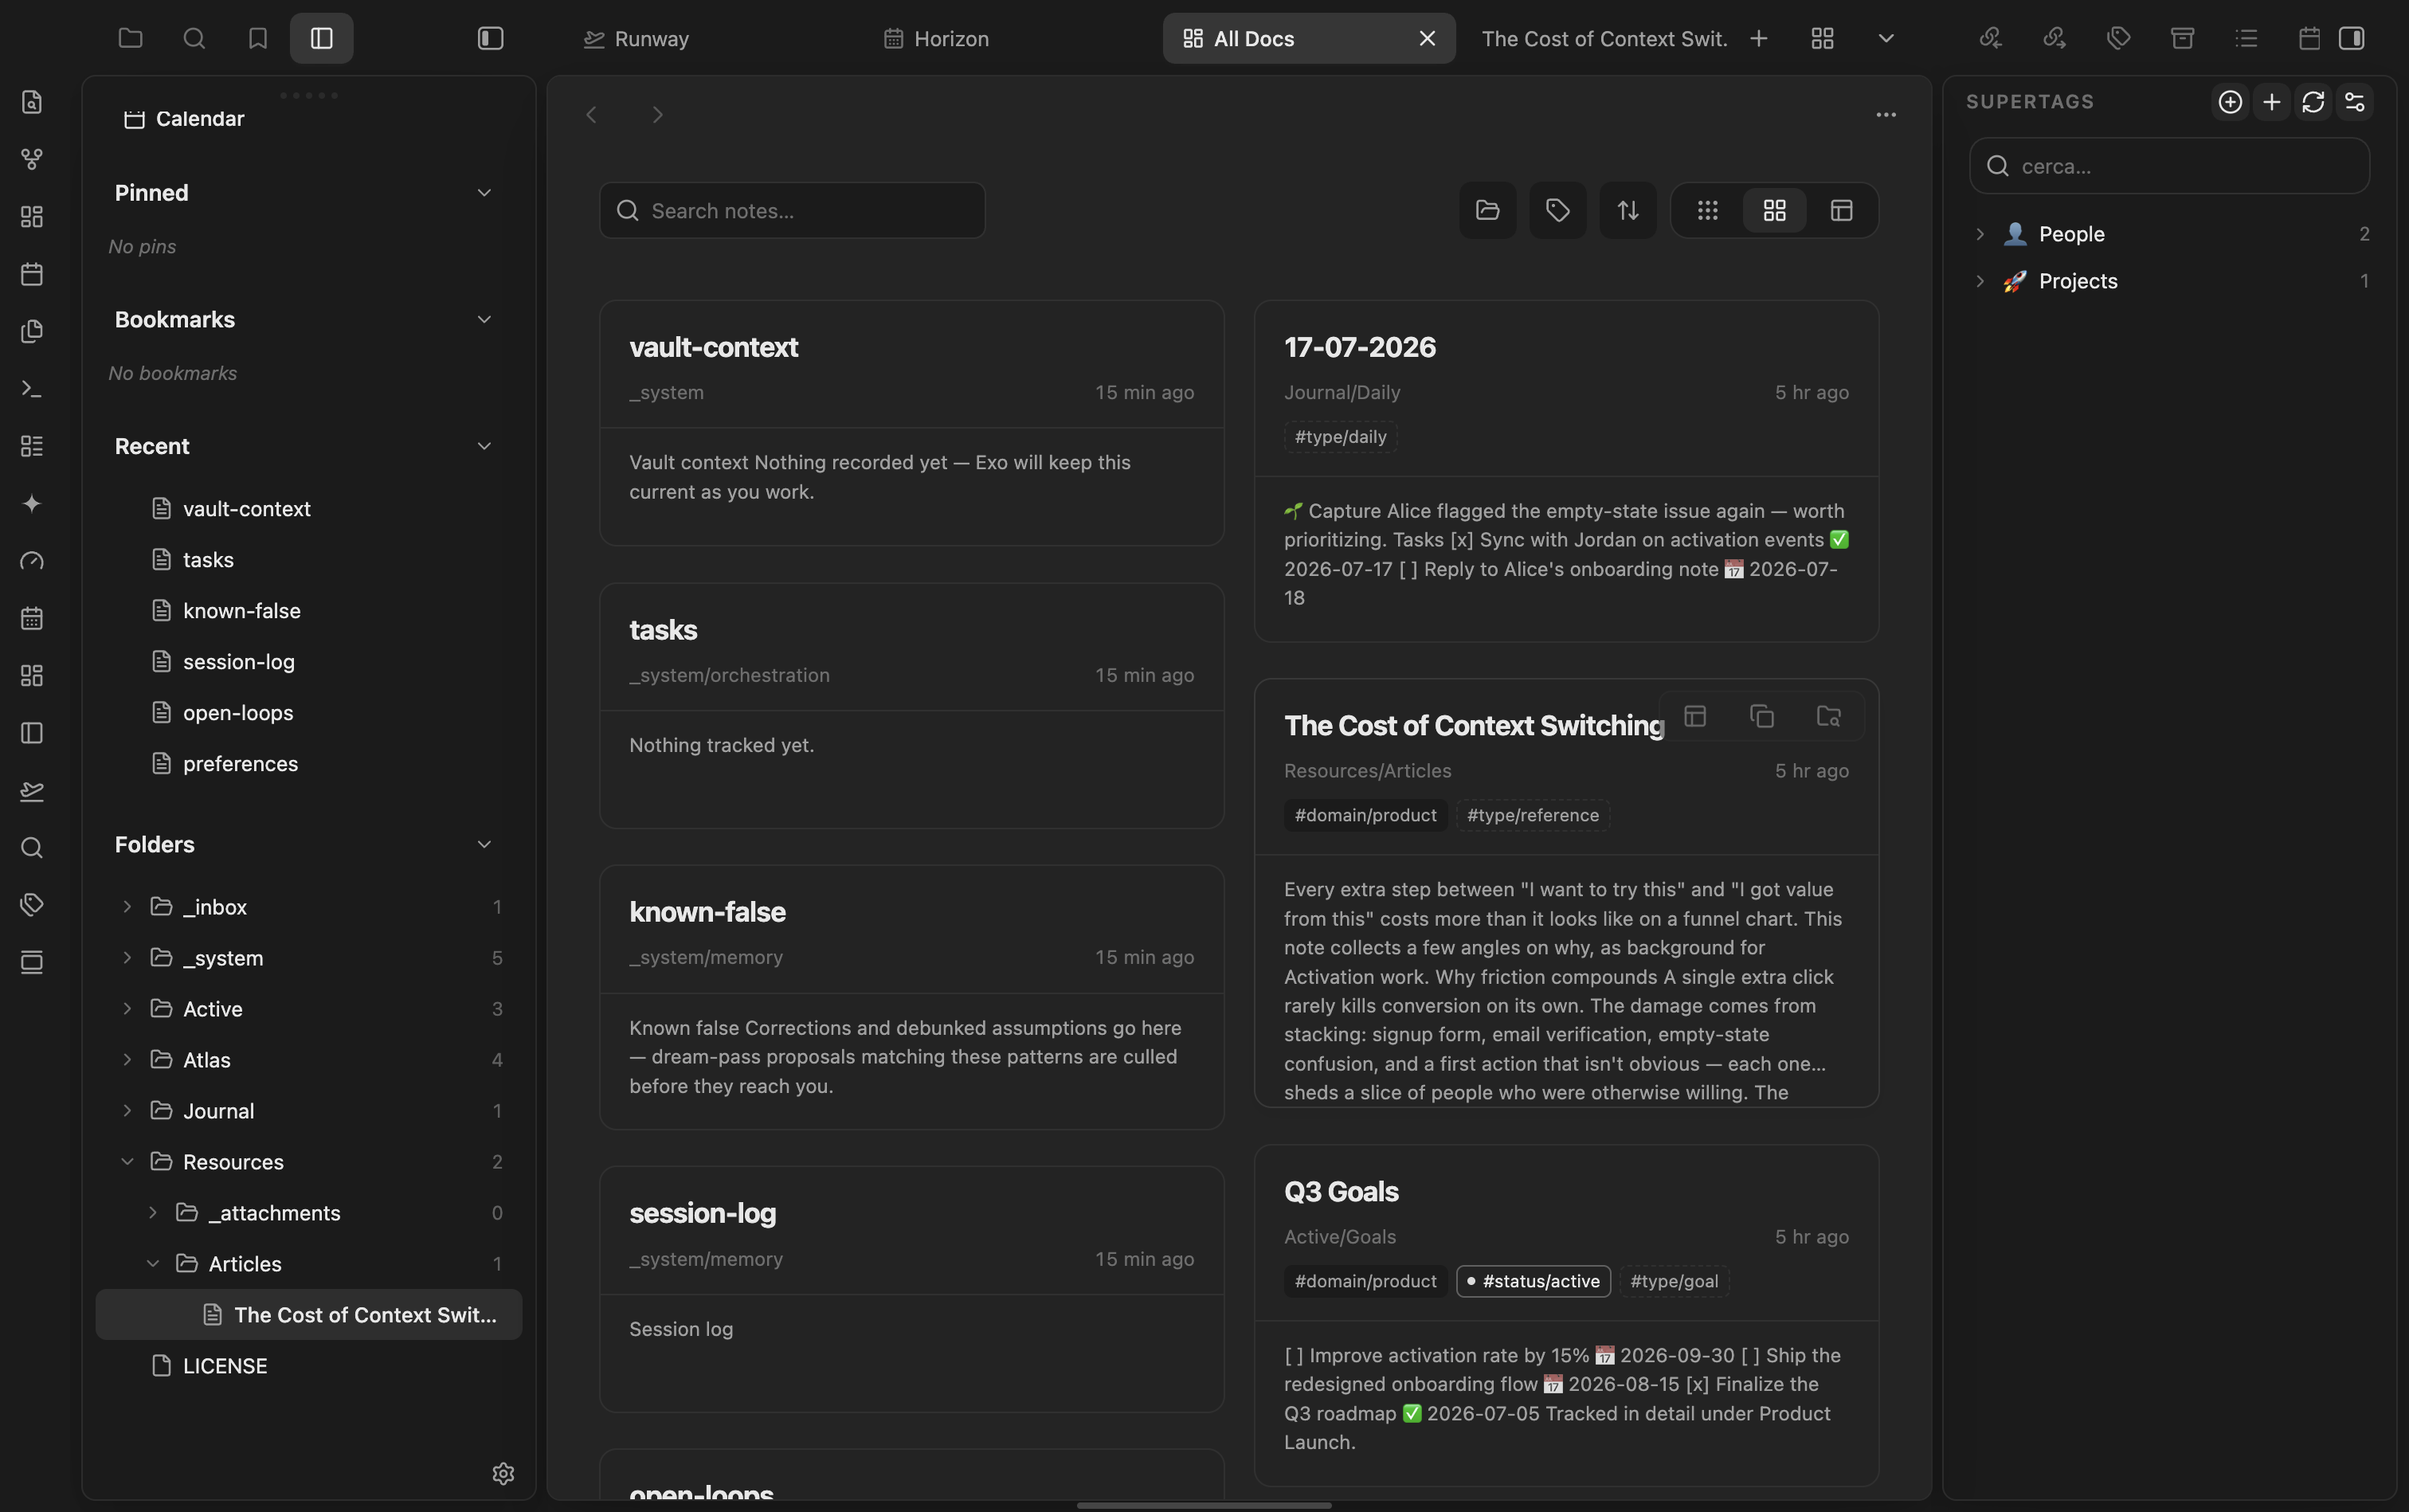
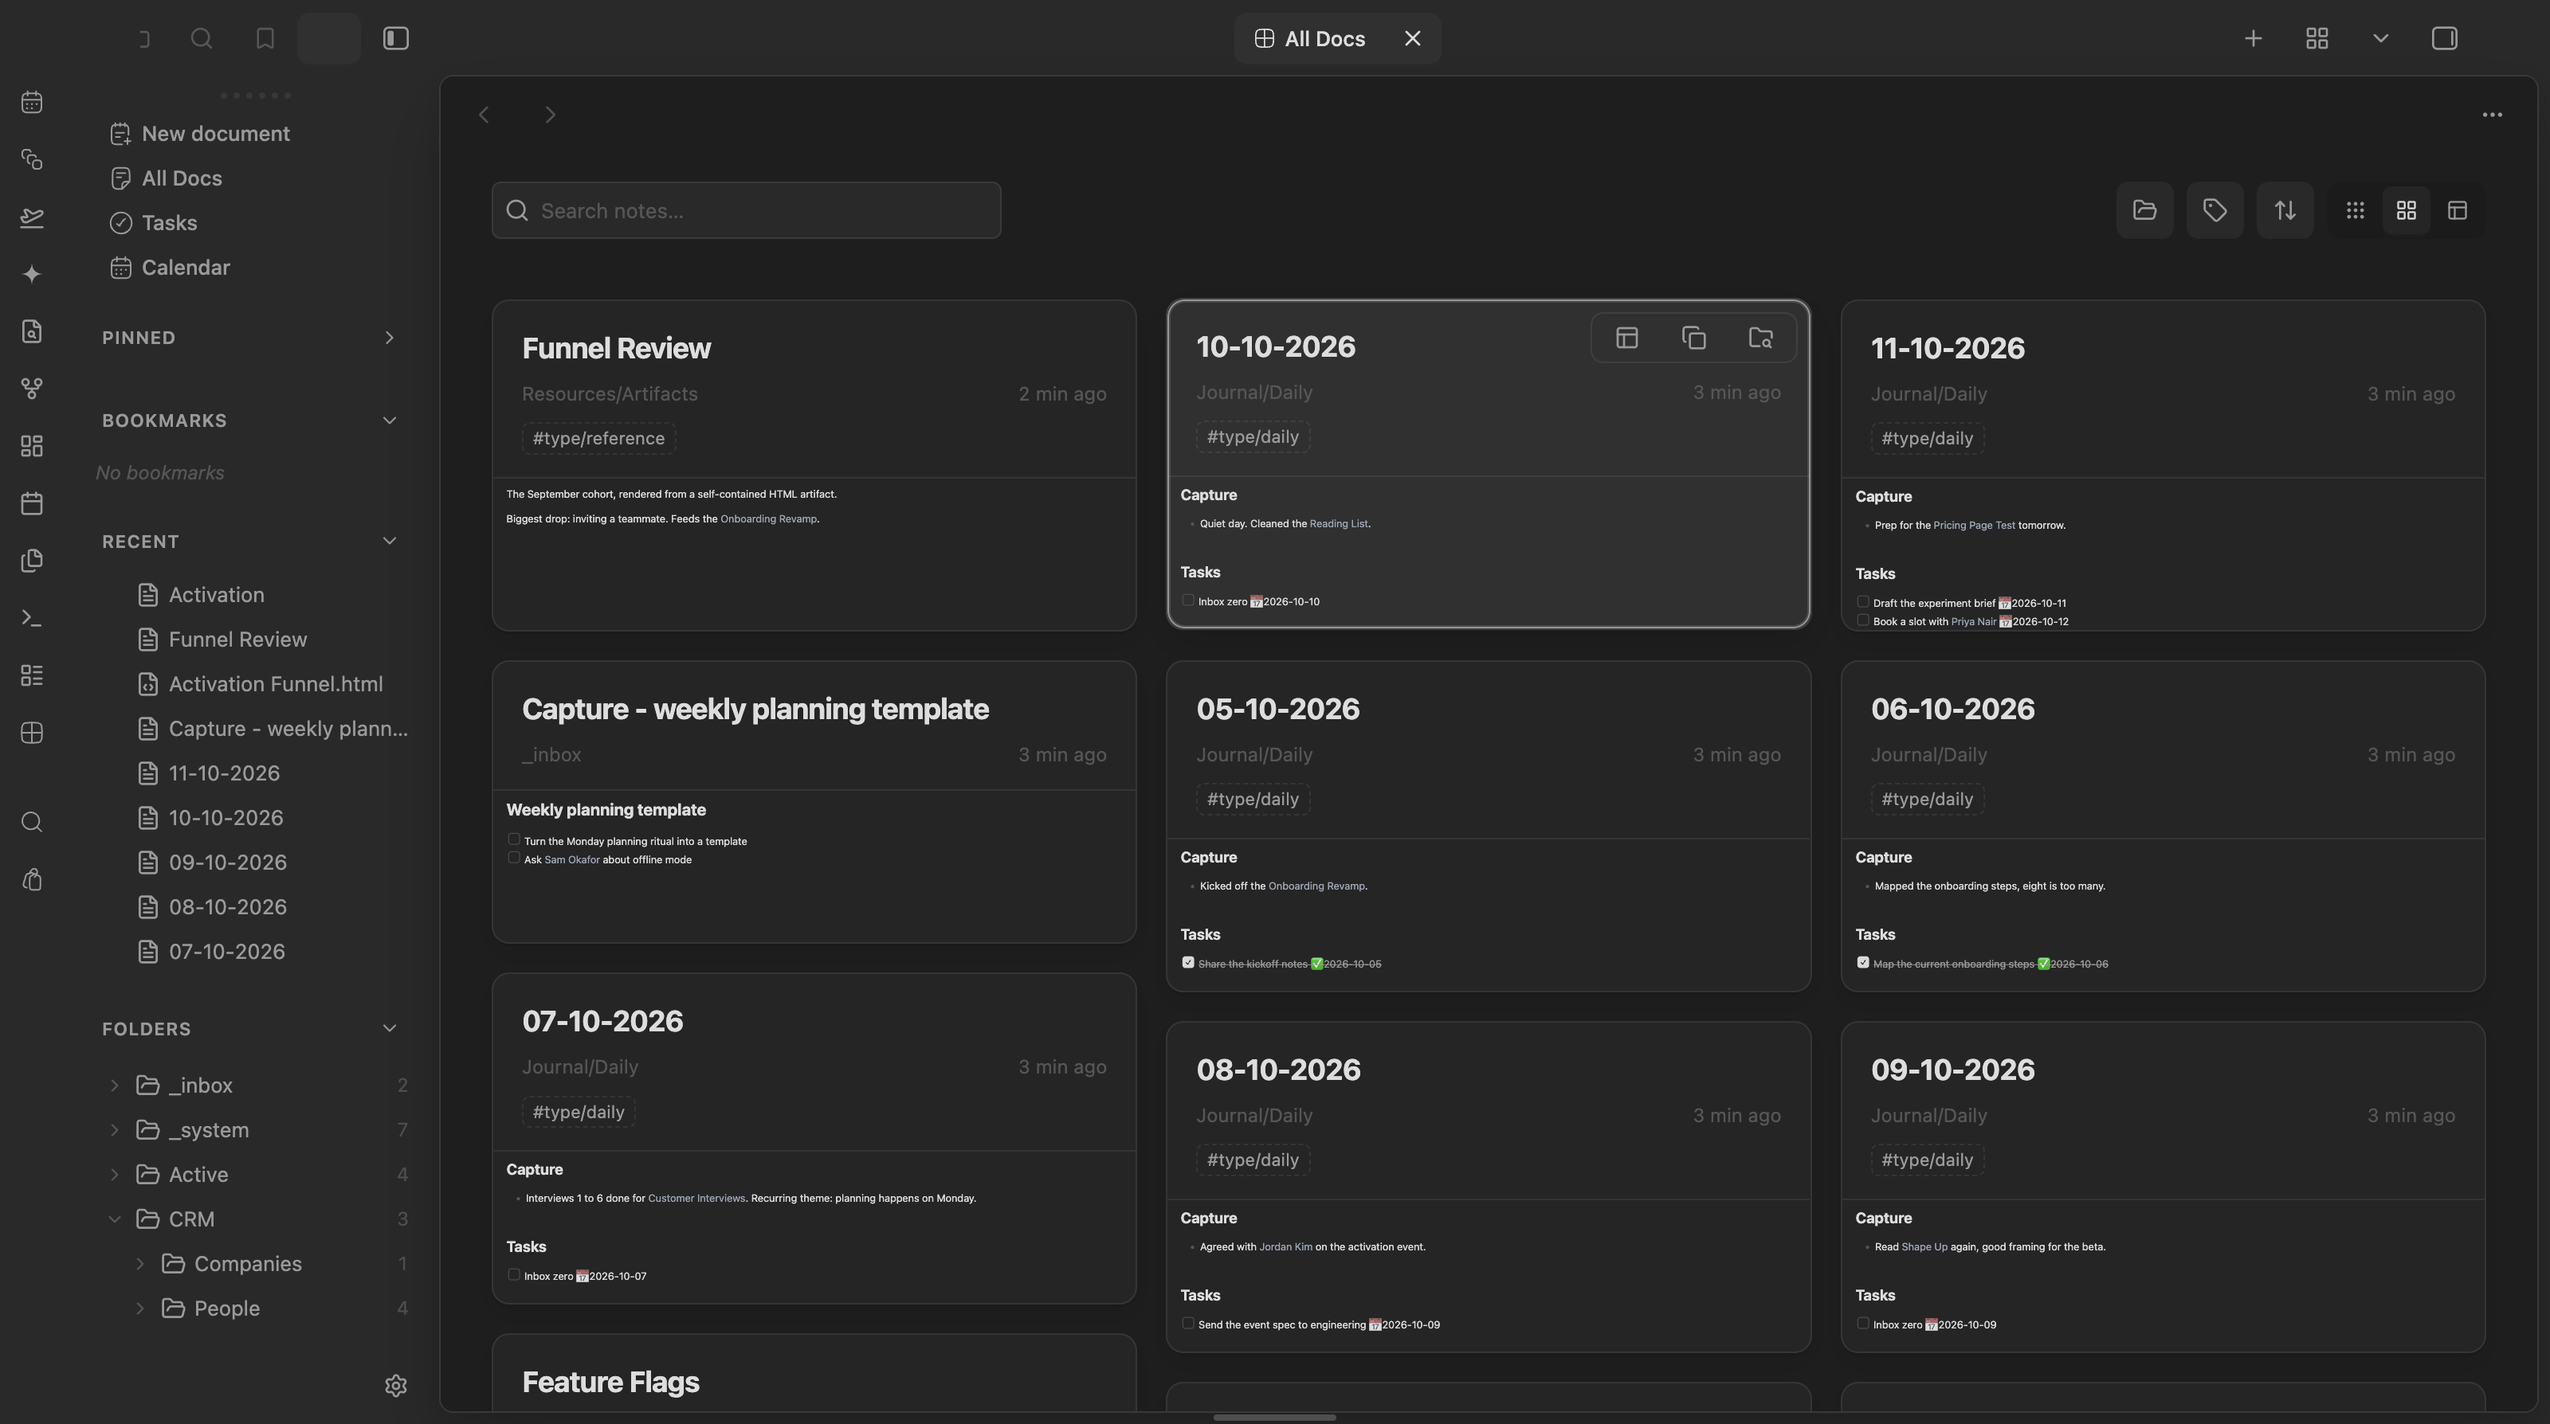
docs: real screenshots from the sample vault in the README
Captured in Obsidian with Cosmos and the current plugin build, on the
public obsidianverse sample vault.

diff --git a/README.md b/README.md
@@ -12,9 +12,9 @@ Part of the marioverse Obsidian plugin suite.
 
 ## Screenshots
 
-| Editorial | Compact | Visual |
+| Compact | Editorial | Masonry for Bases |
 |---|---|---|
-| ![Editorial presentation](screenshots/editorial.png) | ![Compact presentation](screenshots/compact.png) | ![Visual presentation](screenshots/visual.png) |
+| ![Compact presentation](screenshots/compact.png) | ![Editorial presentation](screenshots/editorial.png) | ![Masonry view inside a Base](screenshots/bases.png) |
 
 ## Features
 
